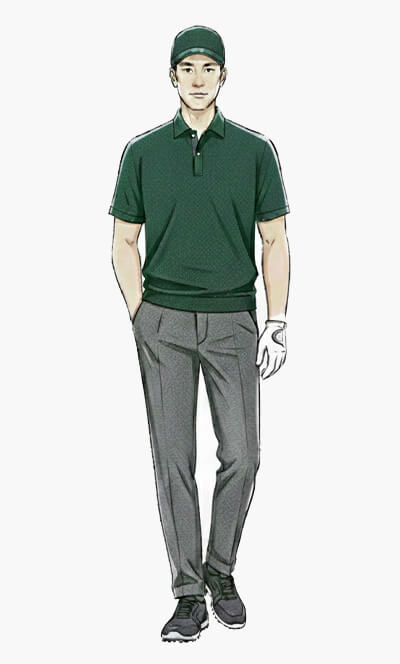
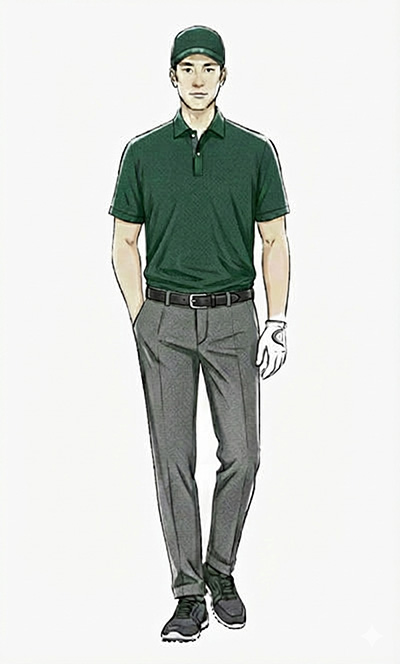
1/13

diff --git a/css/common.css b/css/common.css
@@ -2621,6 +2621,10 @@ table {
   text-align: right;
 }
 
+.c-lead {
+  text-align: center;
+}
+
 /* # =================================================================
 #	フッター上
 # ================================================================= */

diff --git a/css/member.css b/css/member.css
@@ -88,6 +88,10 @@
         margin-top: -30px;
         font-size: 25px;
     }
+    .member-login .box-pat{
+        text-align: center;
+    }
+    
 }
 
 .news-box {

diff --git a/functions.php b/functions.php
@@ -257,20 +257,21 @@ add_action('init', function () {
 function get_dynamic_meta_description()
 {
     $meta_descriptions = [
-        'reservation' => '久能カントリー倶楽部 公式サイト ご予約方法についてページです。ご予約方法について掲載しております。',
-        'hospitality' => '久能カントリー倶楽部 公式サイト ご利用日当日の流れページです。ご利用日当日の流れについて掲載しております。',
-        'restaurant' => '久能カントリー倶楽部 公式サイト レストランページです。レストランメニューについて掲載しております。',
-        'facility' => '久能カントリー倶楽部 公式サイト 施設案内ページです。施設の詳細について掲載しております。',
-        'news' => '久能カントリー倶楽部 公式サイト ニュース一覧ページです。ニュース一覧を掲載しております。',
-        'member' => '久能カントリー倶楽部 公式サイト 会員様お知らせページです。会員様お知らせについて掲載しております。',
-        'information' => '久能カントリー倶楽部 公式サイト 営業案内ページです。営業案内について掲載しております。',
-        'kusunoki' => '久能カントリー倶楽部 公式サイト くすのき会ページです。くすのき会について掲載しております。',
-        'access' => '久能カントリー倶楽部 公式サイト アクセス情報ページです。アクセス情報について掲載しております。',
-        'd-range' => '久能カントリー倶楽部 公式サイト ゴルフ練習場のご案内ページです。ゴルフ練習場のご案内について掲載しております。',
-        'club' => '久能カントリー倶楽部 公式サイト 倶楽部紹介ページです。倶楽部についての詳細を記載しております。',
-        'course' => '久能カントリー倶楽部 公式サイト コース案内ページです。コースの詳細について掲載しております。',
-        'recruit' => '久能カントリー倶楽部 公式サイト 求人情報ページです。求人情報について掲載しております。',
-        'dresscode' => '久能カントリー倶楽部 公式サイト ドレスコードページです。ドレスコードについて掲載しております。',
+        'dresscode' => 'ドレスコードと服装ガイド。ご来場時・プレー時の服装ルール、禁止事項や適切なゴルフウェア例をイラスト付きでご紹介しております。',
+        'reservation' => 'ご予約の一連の流れや、プレー日当日の流れをイラスト付きで解説しております。',
+        'restaurant' => '彩り豊かな料理とおもてなしの空間で、ランチや個室での会食・パーティーシーンにも対応しております。',
+        // 'hospitality' => '久能カントリー倶楽部 公式サイト ご利用日当日の流れページです。ご利用日当日の流れについて掲載しております。',
+        'facility' => 'ゆったりとしたレストラン、接待にご利用いただける個室、広々としたロッカールームや浴場・サウナ、練習場まで設備情報を写真付きで詳しくご紹介します。',
+        'news' => '営業情報、イベント情報、営業スケジュール、施設からのお知らせなど最新ニュースをわかりやすく掲載しています。',
+        'member' => 'メンバー様はこちらよりログインをお願いいたします。',
+        'information' => '会員様向けのお知らせを掲載しております。',
+        'kusunoki' => '営業案内について掲載しております。',
+        'access' => '最寄り駅やICからの交通手段、送迎情報、駐車場案内など、ご来場に役立つアクセス情報をわかりやすくご案内します。',
+        'd-range' => '14打席のドライビングレンジ、天然芝フェアウェイ、バンカー練習エリアなど、充実した練習設備を写真付きで掲載しています。',
+        'club' => 'クラブの特色や歴史、運営概要、会員層、倶楽部が大切にする価値観について記載しております。',
+        'course' => '自然の高低差を生かした戦略的な18ホール、ティーグラウンドやフェアウェイ、名物ホールの特徴を写真付きで詳しく掲載しております。',
+        'recruit' => '久能カントリー倶楽部の求人情報を掲載しております。',
+        
         'sitepolicy' => '久能カントリー倶楽部 公式サイト サイトポリシーページです。サイトポリシーについて掲載しております。',
         'privacypolicy' => '久能カントリー倶楽部 公式サイト プライバシーポリシーページです。プライバシーポリシーについて掲載しております。',
         'charassment' => '久能カントリー倶楽部 公式サイト カスタマーハラスメントへの対応についてのページです。',

diff --git a/page-120-login.php b/page-120-login.php
@@ -41,14 +41,13 @@ if (!empty($_GET['redirect_to'])) {
   <section class="c-member">
     <div class="c-column">
 
-      <h2 class="c-head6 m_head">会員ログイン<span>Member Login</span></h2>
-      <p>会員専用ページにアクセスするにはログインしてください。</p>
+      <p class="c-lead">会員専用ページにアクセスするには<br class="c-brsp">ログインしてください。</p>
 
       <?php if ($login_error): ?>
         <p style="color:red; font-weight:bold;text-align:center;margin:0 0 15px;"><?php echo esc_html($login_error); ?></p>
       <?php endif; ?>
 
-      <div class="c-form box-pat">
+      <div class="c-form box-pat _mtss">
 
         <form method="post">
 
